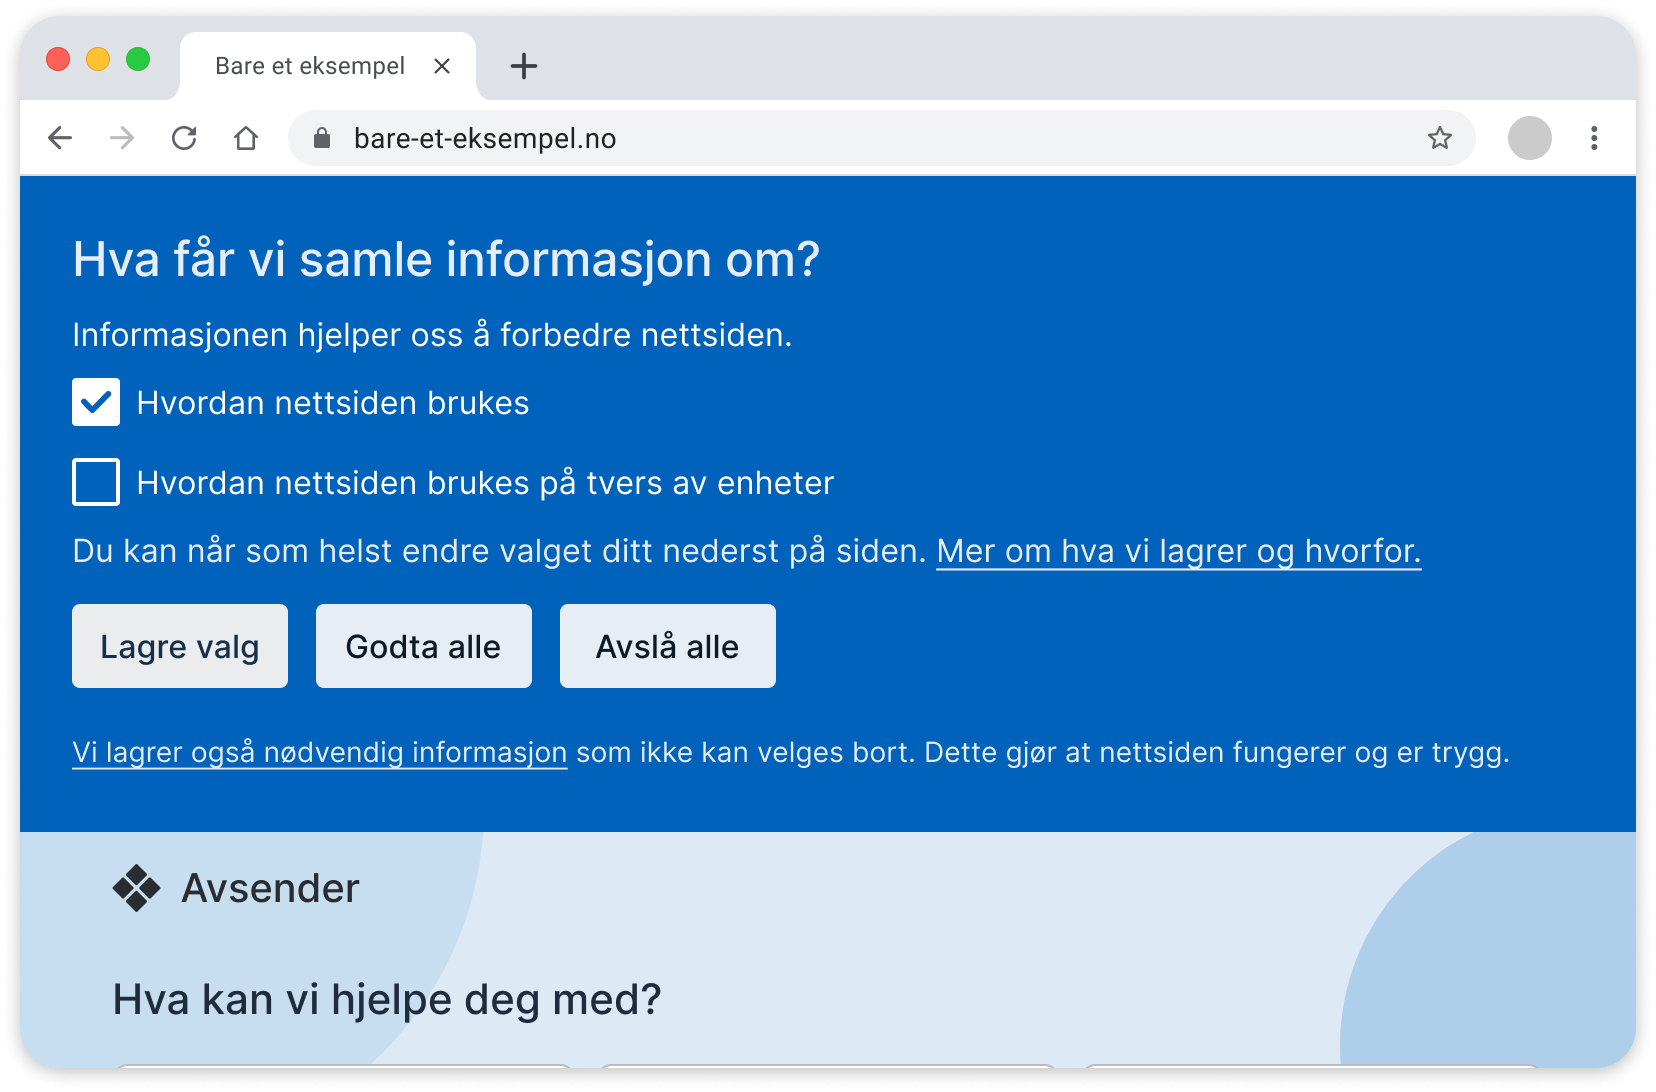
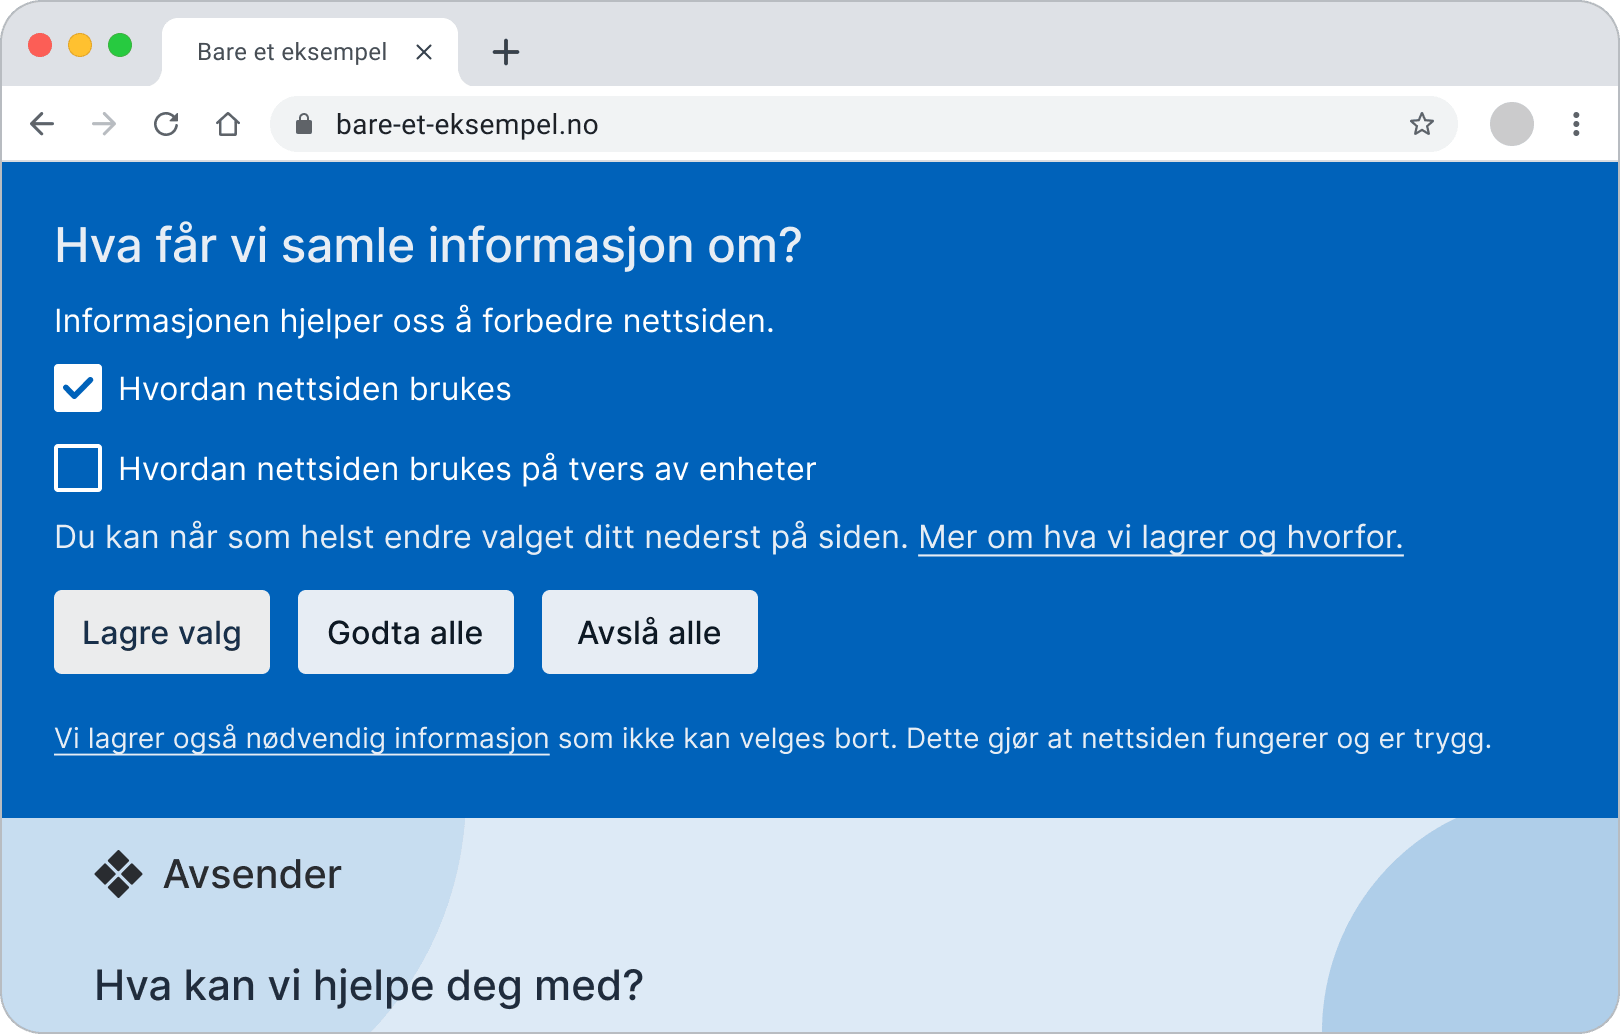
add examples

Changed region(s): [[0.0, 0.0, 1.0, 1.0]]

diff --git a/apps/www/app/content/patterns/no/consent-banner.stories.tsx b/apps/www/app/content/patterns/no/consent-banner.stories.tsx
@@ -1,0 +1,108 @@
+import {
+  Button,
+  Heading,
+  Link,
+  Paragraph,
+  SkipLink,
+} from '@digdir/designsystemet-react';
+
+export const ConsentBanner = () => {
+  return (
+    <>
+      <section
+        aria-labelledby='consent-banner-title'
+        style={{
+          background: '#0062ba',
+          color: 'white',
+          padding: 'var(--ds-size-10) var(--ds-size-8)',
+        }}
+      >
+        <div style={{ maxWidth: '72rem' }}>
+          <Heading
+            id='consent-banner-title'
+            data-size='lg'
+            style={{ marginBottom: 'var(--ds-size-4)' }}
+          >
+            Får vi samle informasjon om hvordan nettsiden brukes?
+          </Heading>
+          <Paragraph
+            style={{
+              color: 'inherit',
+              fontSize: '1.25rem',
+              maxWidth: '68rem',
+            }}
+          >
+            Hvis du svarer ja, lagrer og analyserer vi informasjon som hjelper
+            oss å forbedre nettsiden. Du kan når som helst endre valget ditt
+            nederst på siden.{' '}
+            <Link href='#mer-om-hva-vi-lagrer' style={{ color: 'inherit' }}>
+              Mer om hva vi lagrer og hvorfor.
+            </Link>
+          </Paragraph>
+          <form
+            method='post'
+            action='/api/consent'
+            style={{
+              display: 'flex',
+              gap: 'var(--ds-size-4)',
+              marginTop: 'var(--ds-size-5)',
+            }}
+          >
+            <Button
+              className='consent-banner-button'
+              data-color='neutral'
+              data-size='md'
+              name='action'
+              type='submit'
+              value='all'
+            >
+              Ja
+            </Button>
+            <Button
+              className='consent-banner-button'
+              data-color='neutral'
+              data-size='md'
+              name='action'
+              type='submit'
+              value='required'
+            >
+              Nei
+            </Button>
+          </form>
+          <Paragraph
+            style={{
+              color: 'inherit',
+              fontSize: '1.125rem',
+              marginTop: 'var(--ds-size-8)',
+            }}
+          >
+            <Link href='#nodvendig-informasjon' style={{ color: 'inherit' }}>
+              Vi lagrer også nødvendig informasjon
+            </Link>{' '}
+            som ikke kan velges bort. Dette gjør at nettsiden fungerer og er
+            trygg.
+          </Paragraph>
+        </div>
+      </section>
+      <style>
+        {`
+          .consent-banner-button {
+            background-color: rgb(255 255 255 / 100%);
+            color: rgb(0 0 0 / 100%);
+          }
+
+          .consent-banner-button:hover {
+            background-color: rgb(255 255 255 / 70%);
+          }
+
+          .consent-banner-skip-link:focus {
+            width: 100%;
+          }
+        `}
+      </style>
+      <SkipLink className='consent-banner-skip-link' href='#main'>
+        Hopp til hovedinnhold
+      </SkipLink>
+    </>
+  );
+};